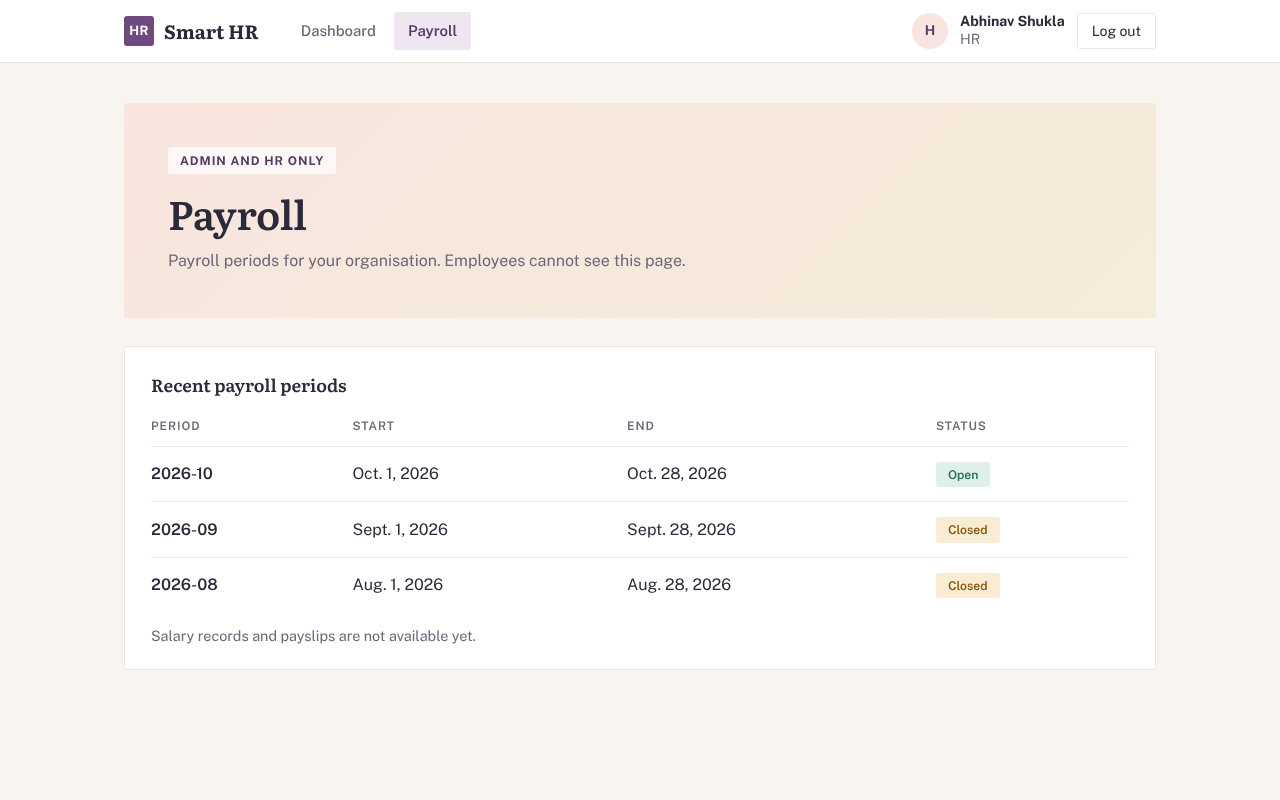
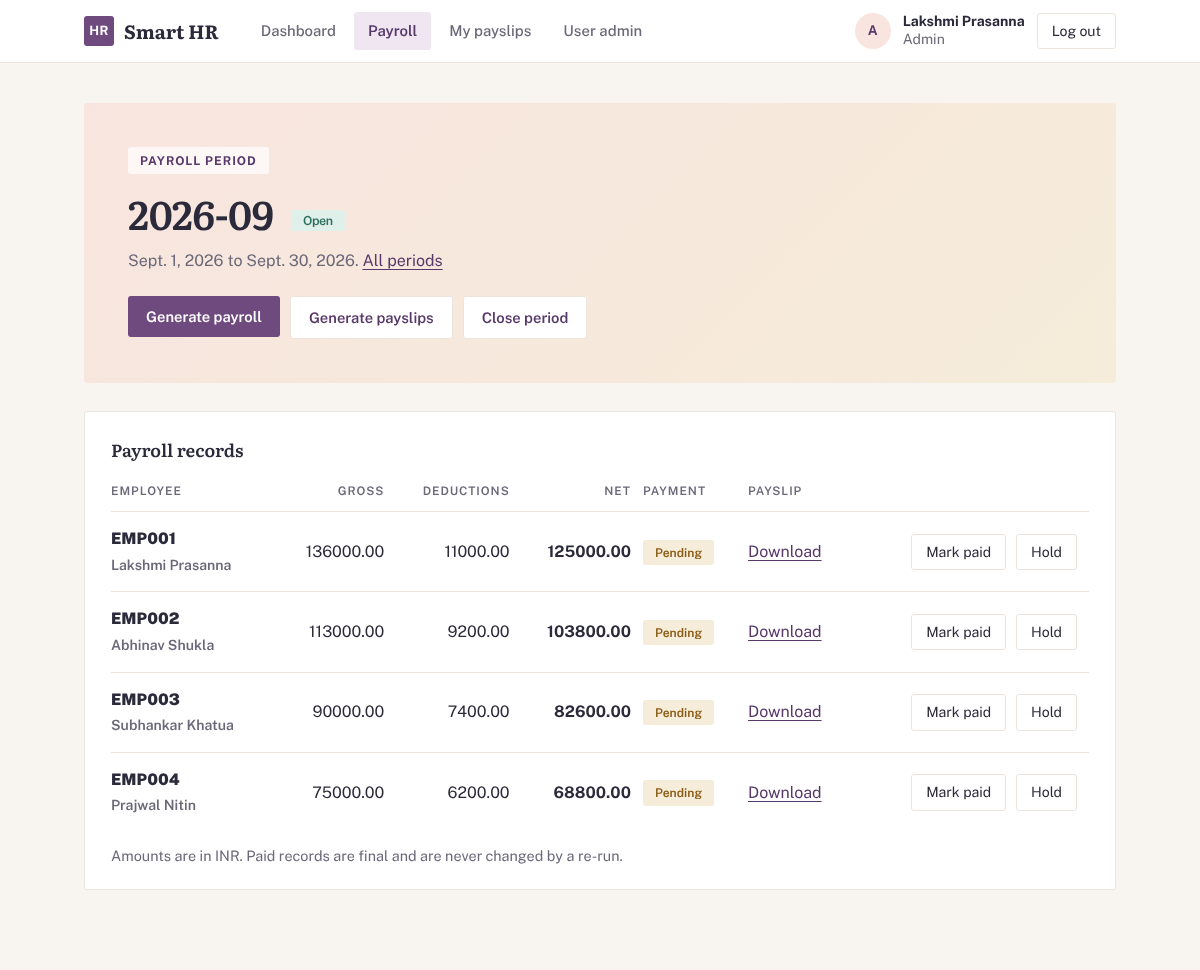
docs: document Week 3 payroll, payslips and notifications

diff --git a/README.md b/README.md
@@ -12,7 +12,7 @@ leave requests and payroll, with separate Admin, HR and Employee dashboards.
 |------|-------|--------|
 | 1 | Requirements, data model, authentication, role-aware dashboards, tests | Done |
 | 2 | Employee, attendance and leave workflows | Done |
-| 3 | Payroll, payslips, e-mail notifications | Planned |
+| 3 | Payroll, payslips, e-mail notifications | Done |
 | 4 | Charts, reports, security review, final docs | Planned |
 
 ### What Week 1 delivers
@@ -45,19 +45,46 @@ leave requests and payroll, with separate Admin, HR and Employee dashboards.
 * 17 additional tests covering the directory privacy boundary, attendance
   rules and the leave approval workflow (50 tests in total).
 
+### What Week 3 delivers
+
+* **Salary setup (Admin/HR):** a catalogue of salary components (earnings and
+  deductions, fixed or a percentage of Basic) and each employee's values.
+  Every change is written to the audit log.
+* **Payroll periods and records:** create a period for a month, then generate
+  the payroll for everyone who has salary set up. Re-running is safe: paid
+  records are never changed, unpaid records are refreshed, and anything that
+  cannot be calculated is reported. Payment status moves pending, on hold,
+  paid (paid is final); a period can be closed only when nothing is pending.
+* **Payslips:** a PDF per payroll record built from a snapshot of its salary
+  lines. Employees download only their own (`/payroll/my/`); Admin and HR can
+  download any. Files are served through a permission-checked view, never
+  from a public media URL.
+* **E-mail notifications:** employees are e-mailed when a payslip is issued
+  (no salary figures in the e-mail) and when a leave request is approved or
+  rejected. Every attempt is stored in `NotificationLog` as sent or failed; a
+  mail outage never breaks the action that triggered it.
+* **Pages:** Payroll (periods, records, payslips, payment status) for Admin/HR
+  and My payslips for everyone.
+* Tests for payroll rules, payslips, access restrictions, notifications and the
+  pages (all tests pass; see Run the tests).
+
 ## Screenshots
 
 | Login | Admin dashboard |
 |---|---|
 | ![Login page](docs/screenshots/01-login.png) | ![Admin dashboard](docs/screenshots/02-admin-dashboard.png) |
 
-| Payroll (Admin and HR only) | Employee dashboard |
+| Payroll period (Admin and HR only) | Employee dashboard |
 |---|---|
-| ![Payroll page](docs/screenshots/03-payroll-page.png) | ![Employee dashboard](docs/screenshots/04-employee-dashboard.png) |
+| ![Payroll period page](docs/screenshots/03-payroll-page.png) | ![Employee dashboard](docs/screenshots/04-employee-dashboard.png) |
 
 | Access denied (Employee opening /payroll/) | Employee dashboard on a phone |
 |---|---|
 | ![Access denied](docs/screenshots/05-access-denied.png) | ![Employee dashboard on mobile](docs/screenshots/06-employee-dashboard-mobile.png) |
+
+| My payslips (each employee sees only their own) | Sample payslip PDF (synthetic data) |
+|---|---|
+| ![My payslips](docs/screenshots/07-my-payslips.png) | ![Sample payslip PDF](docs/screenshots/08-payslip-pdf.png) |
 
 A step-by-step walkthrough for showing the app is in [docs/demo_script.md](docs/demo_script.md).
 
@@ -105,7 +132,8 @@ lists every variable with placeholder values.
 | `LOG_LEVEL` | Logging level. | `INFO` |
 | `DB_ENGINE` | `sqlite` or `postgres`. | `sqlite` |
 | `DB_NAME`, `DB_USER`, `DB_PASSWORD`, `DB_HOST`, `DB_PORT` | PostgreSQL connection (used when `DB_ENGINE=postgres`). | `smart_hr`, `postgres`, empty, `localhost`, `5432` |
-| `EMAIL_*`, `DEFAULT_FROM_EMAIL` | E-mail settings (used from Week 3). | console backend |
+| `EMAIL_*`, `DEFAULT_FROM_EMAIL` | E-mail settings for notifications. | console backend (prints e-mails in the terminal) |
+| `SITE_URL` | Base address used for links inside e-mails. | `http://localhost:8000` |
 | `SEED_PASSWORD` | Password for demo accounts created by the seed script. | `Demo@12345` |
 
 Generate a secret key with:
@@ -149,8 +177,9 @@ python manage.py migrate
 
 ## Demo data
 
-Creates one login per role, three departments, employee profiles and four
-leave types. All data is synthetic. Safe to re-run.
+Creates one login per role, three departments, employee profiles, four
+leave types, salary components and two payroll periods (August closed and
+paid, September open) with payslips. All data is synthetic. Safe to re-run.
 
 ```
 python scripts/seed_demo_data.py
@@ -179,7 +208,9 @@ Open http://127.0.0.1:8000/ and log in. Each role lands on its own dashboard:
 | `/dashboard/admin/` | yes | no | no |
 | `/dashboard/hr/` | yes | yes | no |
 | `/dashboard/employee/` | yes | yes | yes |
-| `/payroll/` | yes | yes | no |
+| `/payroll/` and `/payroll/periods/<id>/` | yes | yes | no |
+| `/payroll/my/` | own | own | own |
+| `/payroll/payslips/<id>/download/` | any | any | own |
 | `/api/accounts/me/` | yes | yes | yes |
 | `/api/employees/employees/` | full | full | directory only |
 | `/api/attendance/checkin/`, `/checkout/` | own | own | own |
@@ -187,7 +218,10 @@ Open http://127.0.0.1:8000/ and log in. Each role lands on its own dashboard:
 | `/api/attendance/summary/` | yes | yes | no |
 | `/api/leave/requests/` | all | all | own |
 | `/api/leave/requests/<id>/decide/` | decide | decide | cancel own |
-| `/api/payroll/records/` | all rows | all rows | own rows |
+| `/api/payroll/records/` (`?period=YYYY-MM`) | all rows | all rows | own rows |
+| `/api/payroll/records/<id>/status/` | yes | yes | no |
+| `/api/payroll/periods/` and `.../<id>/generate/`, `/payslips/`, `/close/` | yes | yes | no |
+| `/api/payroll/components/` and `/api/payroll/employee-salary/` | yes | yes | no |
 | `/admin/` (Django admin) | yes | no | no |
 
 ## Run the tests
@@ -208,9 +242,9 @@ apps/
   employees/             Department, Employee
   attendance/            Attendance
   leave_management/      LeaveType, LeaveRequest, LeaveStatusHistory, state rules
-  payroll/               PayrollPeriod, SalaryComponent, PayrollRecord, payroll page + API
-  reports/               AuditEvent, NotificationLog, audit service
-templates/               HTML templates (base, login, dashboards, payroll, 403)
+  payroll/               Periods, salary components, records, payslip PDFs, pages + API
+  reports/               AuditEvent, NotificationLog, audit and e-mail services
+templates/               HTML templates (base, login, dashboards, payroll, e-mails, 403)
 static/                  CSS
 tests/                   pytest test suite
 scripts/                 seed_demo_data.py
@@ -231,11 +265,14 @@ requirements.txt         Python dependencies
 
 ## Known limitations
 
-* The dashboards are shells; the feature cards are placeholders for later weeks.
-* Payslip generation, e-mail sending, charts and CSV/PDF export are not built yet.
+* The Admin, HR and Employee dashboards still show placeholder cards for features planned for Week 4.
+* Charts and CSV/Excel/PDF report exports are not built yet (Week 4).
+* Payroll is a full month per employee: there is no proration for part-month joiners, no tax slabs and no overtime.
+* E-mails are sent straight away, not through a background queue (Celery/Redis); failures are logged and can be re-tried by regenerating.
+* Salary components, periods and records are managed through the pages and API; there is no bulk import.
 * Attendance and leave are exposed through the API only; web screens for them
   are planned for a later sprint.
-* Tests run on whichever database `.env` selects; all 50 pass on SQLite.
+* Tests run on whichever database `.env` selects; the full suite passes on SQLite.
 * KPI definitions and deployment notes are added in Week 4.
 
 ## Contributors

diff --git a/docs/demo_script.md b/docs/demo_script.md
@@ -61,16 +61,27 @@ Workflows to show with the API (or Django admin for the data):
 2. Log in as `admin_demo` and open http://127.0.0.1:8000/admin/ and then **Audit events**.
 3. You see a login event for the successful logins, and an event with `{"result": "failed", "username": "employee_demo"}` for the failed attempt. The password is never stored.
 
-## 5. Tests
+## 5. Payroll, payslips and e-mail (Week 3)
+
+1. Log in as `hr_demo` and click **Payroll**. You see the August period (closed) and the September period (open).
+2. Open September. Each employee has gross pay, deductions and net pay. Click **Mark paid** on one row, then try **Close period**: it refuses while another record is still pending.
+3. Click **Download** on a payslip. A PDF opens with the earnings, deductions and net pay.
+4. Open `/admin/` as `admin_demo` and then **Audit events**: the payment status change is there with who did it. In the terminal running the server you can also see the e-mail printed when a payslip or a leave decision is sent; **Notification logs** in the admin shows each one as sent or failed.
+5. Log in as `employee_demo` and click **My payslips**. Only that employee's own payslips are listed. Try a colleague's payslip address (change the number in `/payroll/payslips/<id>/download/`): the answer is "not found".
+6. Try http://127.0.0.1:8000/media/payslips/2026-09-EMP003.pdf: it is not found, because payslips are never served from a public address.
+
+What to point out: pay is calculated from salary components (a percentage of Basic or a fixed amount), paid records are final, every sensitive change is audited, and payslip e-mails contain no salary figures.
+
+## 6. Tests
 
 ```
 python -m pytest
 ```
 
-All tests pass (53 at the time of writing). They cover authentication, the role matrix, model rules, payroll access, the Week 2 workflows and login auditing.
+All tests pass (123 at the time of writing). They cover authentication, the role matrix, model rules, the Week 2 workflows, login auditing, payroll rules, payslip generation and download access, e-mail notifications and the payroll pages.
 
 ## Notes for questions
 
 * Passwords are hashed by Django; secrets live in `.env`, which is never committed.
 * The database is PostgreSQL (SQLite works for a quick local start).
-* Payroll pages, payslips and e-mail notifications are Week 3; charts and reports are Week 4.
+* Charts, downloadable reports and the deployment guide are Week 4.

diff --git a/docs/schema.md b/docs/schema.md
@@ -18,6 +18,7 @@ erDiagram
     SALARY_COMPONENT ||--o{ EMPLOYEE_SALARY_COMPONENT : defines
     EMPLOYEE ||--o{ PAYROLL_RECORD : "is paid via"
     PAYROLL_PERIOD ||--o{ PAYROLL_RECORD : groups
+    PAYROLL_RECORD ||--o{ PAYROLL_RECORD_LINE : "is made of"
     USER |o--o{ AUDIT_EVENT : performs
     USER |o--o{ NOTIFICATION_LOG : receives
 
@@ -117,6 +118,13 @@ erDiagram
         file payslip_file
         datetime payslip_generated_at
     }
+    PAYROLL_RECORD_LINE {
+        int id PK
+        int record_id FK
+        string name
+        string component_type "earning, deduction"
+        decimal amount
+    }
     AUDIT_EVENT {
         int id PK
         int actor_id FK
@@ -146,7 +154,7 @@ erDiagram
 | `employees` | `Department`, `Employee` |
 | `attendance` | `Attendance` |
 | `leave_management` | `LeaveType`, `LeaveRequest`, `LeaveStatusHistory` |
-| `payroll` | `PayrollPeriod`, `SalaryComponent`, `EmployeeSalaryComponent`, `PayrollRecord` |
+| `payroll` | `PayrollPeriod`, `SalaryComponent`, `EmployeeSalaryComponent`, `PayrollRecord`, `PayrollRecordLine` |
 | `reports` | `AuditEvent`, `NotificationLog` |
 
 ## Integrity rules enforced by the database
@@ -168,6 +176,7 @@ erDiagram
 
 * `Employee.department` is `SET_NULL`: removing a department keeps its people.
 * `Employee.user` is `CASCADE`: an employee record has no meaning without its login.
+* `PayrollRecordLine.record` is `CASCADE`: the lines are a snapshot owned by their record.
 * `PayrollRecord.employee` and `.period` are `PROTECT`: payroll history cannot be
   lost by deleting an employee or a period.
 * `LeaveRequest.leave_type` and `EmployeeSalaryComponent.component` are `PROTECT`:

diff --git a/docs/role_permission_matrix.md b/docs/role_permission_matrix.md
@@ -25,10 +25,11 @@ already have automated tests in `tests/`.
 | View / correct anyone's attendance | Yes | Yes | No | 2 | Corrections are audited |
 | Apply for / cancel own leave | Own | Own | Own | 2 | Needs an employee profile |
 | Approve / reject leave | Yes | Yes | No | 2 | Proposed: never your own request |
-| Payroll periods and salary components | Yes | Yes | No | 3 | |
-| Manage payroll records | Yes | Yes | No | 3 | |
-| Download payslip | All | All | Own | 3 | Permission-checked view, not a static URL |
-| View notification logs | Yes | No | No | 3 | |
+| Payroll periods and salary components | Yes | Yes | No | 3 | Enforced and tested; salary changes are audited |
+| Manage payroll records (generate, mark paid, close period) | Yes | Yes | No | 3 | Enforced and tested; status changes are audited |
+| Download payslip | All | All | Own | 3 | Permission-checked view, not a static URL; other people's payslips return 404; tested |
+| My payslips page `/payroll/my/` | Own | Own | Own | 3 | Login required; lists only the viewer's own records |
+| View notification logs | Yes | No | No | 3 | Read-only in the Django admin site |
 | Dashboards charts and CSV/Excel/PDF exports | Yes | Yes | No | 4 | |
 
 Admin and HR rows marked "Own" apply only when that user also has an Employee
